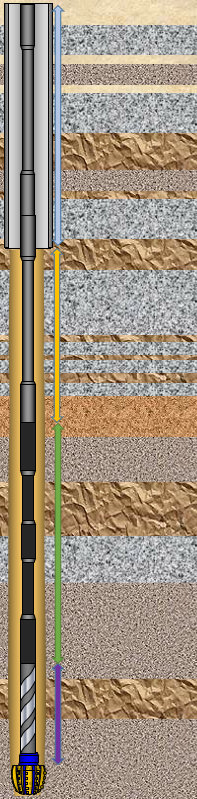
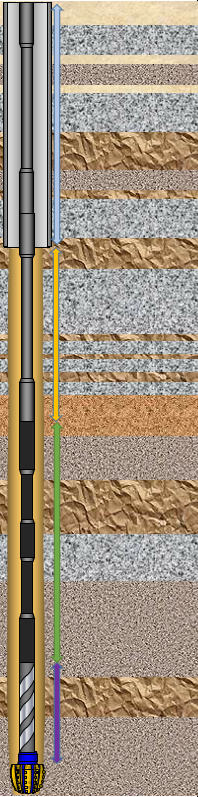
diseno final de iadc v sur es

Changed region(s): [[0.0, 0.0, 1.0, 1.0], [0.3655, 0.3614, 0.3959, 0.4216], [0.3655, 0.0602, 0.3959, 0.0903]]

diff --git a/resources/views/Admin/content/Instructor/exercises/killsheetsComponents/IADC/vertical/Surface/spanish.blade.php b/resources/views/Admin/content/Instructor/exercises/killsheetsComponents/IADC/vertical/Surface/spanish.blade.php
@@ -23,6 +23,7 @@
         display: flex;
         justify-content: space-between;
         align-items: center;
+      
         /* border-bottom: 1px solid #000; */
         /* padding-bottom: 10px; */
         /* margin-bottom: 10px; */
@@ -53,10 +54,13 @@
         text-align: center;
         color: #3366FF;
         border: 1px solid #3366FF;
-        border-radius: 20px;
-        padding: 0.5vw;
+        border-radius: 50%;
+        padding: 0.5vw 1vw;
         margin: 15px auto;
-        width: auto;
+        max-width: fit-content;
+        font-size: 1.2vw;
+        font-weight: bold;
+        font-family: 'Calibri', Helvetica, Arial, sans-serif;
         height: auto;
     }
     
@@ -70,7 +74,9 @@
     
     .label-iadc-v {
         background: #0000000d;
-        min-width: 20%;
+        color: #000;
+        min-width: 12%;
+        width: auto;
         max-width: 20%;
         font-size: 0.7vw;
         text-align: center;
@@ -85,8 +91,20 @@
         align-items: center;
         font-size: 0.7vw;
     }
+
+    .formula-section-anular {
+        flex: 1;
+        display: flex;
+        align-items: center;
+        font-size: 0.7vw;
+    }
     .formula span{
         font-size: 1.1vw;
+        font-family: Cambria,Georgia,serif; 
+    }
+
+    .formula-section-anular span{
+        font-size: 1vw;
         font-family: Cambria,Georgia,serif; 
     }
     
@@ -96,12 +114,18 @@
         text-align: center;
         margin: 0 5px;
     }
+
+      .formula-section-anular input {
+        width: 3vw;
+        text-align: center;
+        margin: 0 5px;
+    }
     
     .total-box {
         border: 1px solid #000;
-        padding: 10px;
+        padding: 1vw 0.5vw;
         margin: 10px auto;
-        width: 80%;
+        max-width: fit-content;
         text-align: center;
     }
     
@@ -129,6 +153,8 @@
     .blue-text {
         color: #3366FF;
         font-size: 1vw;
+        font-family: 'Calibri', Helvetica, Arial, sans-serif;
+        font-weight: bold;
     }
     
     .blue-text input{
@@ -251,7 +277,7 @@
     .card-title {
     margin: 0;
     font-size: 18px;
-    color: #333;
+    color: #000000;
     }
     
     .card-body {
@@ -279,7 +305,7 @@
     .form-group label {
     flex-basis: 40%;
     font-weight: 500;
-    color: #555;
+    color: #000000;
     }
     
     input {
@@ -328,45 +354,38 @@
     min-height: 50vh;
     padding: 20px;
     }
+
+    .min-text{
+        min-width:6vw;
+        padding: 0;
+    }
+
+    .input-number-data-well {
+        width: 20%;
+        text-align: center;
+        margin: 0;
+        border: none;
+        min-width: 30px;
+        border-bottom: 1px solid #000000;
+        padding: 0;
+        outline: none;
+        background-color: transparent;
+        transition: border-color 0.3s;
+    }
 </style>
 <div class="container-iadc-v">
     <!-- Left section: Well diagram (would be an image) -->
     <div class="well-diagram-iadc-v">
-    <img src="/assets/images/killsheets/iadc-v-sur.png" alt="Well Diagram" style="width: 100%; height: 100%;">
-    <div class="section" style="position: ">
-        <div class="calc-row">
-            <div class="label-iadc-v">Tubería de <br> perforación <br>(DP)</div>
-            <div class="formula">
-                <span>Capacidad</span>
-                <input class="min-text" type="text"> BBL/PIE x
-                <span>Longitud</span>
-                <input class="min-text" type="text"> PIES = 
-                <input class="min-text" type="text"> BBL
-            </div>
+        <div class="section" style="position: absolute; left:4.2vw; ">
+            <div class="label-iadc-v" style=" border: 0.1vw solid #9DC3E6; min-width: 100%; background: #fff; font-size:0.7vw; padding: 0.1vw 0 0.3vw 0; margin-top:7vw; font-family: 'Calibri', Helvetica, Arial, sans-serif;"><strong> Longitud DP en agujero</strong><br style="padding: 0;"> <strong>revestido </strong><br style="padding: 0;"><input class="input-number-data-well" type="number" style="padding: 0; width: 5vw;"></div>
+            <div class="label-iadc-v" style=" border: 0.1vw solid #000; min-width: 100%; background: #b3b3b3;  font-size:0.7vw; padding: 0.1vw 0 0.3vw 0; margin-top:4vw; font-family: 'Calibri', Helvetica, Arial, sans-serif;"><strong> Revestimiento MD </strong><input class="input-number-data-well" type="number"> <br><strong>Revestimiento TVD</strong><input class="input-number-data-well" type="number" style="padding: 0; width: 2vw;"></div>
+            <div class="label-iadc-v" style=" border: 0.1vw solid #FFC000;min-width: 100%;background: #fff;  font-size:0.66vw; padding: 0.1vw 0 0.3vw 0; margin-top:3.5vw; font-family: 'Calibri', Helvetica, Arial, sans-serif;"><strong>Longitud DP en agujero abierto</strong><br> <input class="input-number-data-well" type="number" style="padding: 0; width: 5vw;"> <br> <strong>(Agujero revestido MD, Longitud DC-MD-Longitud HWDP)</strong> </div>
+            <div class="label-iadc-v" style=" border: 0.1vw solid #548235;min-width: 100%; background: #fff;  font-size:0.7vw; padding: 0.1vw 0 0.3vw 0; margin-top:11.5vw; font-family: 'Calibri', Helvetica, Arial, sans-serif;"><strong>Longitud HWDP</strong><br> <input class="input-number-data-well" type="number" style="padding: 0; width: 5vw;"> </div>
+            <div class="label-iadc-v" style=" border: 0.1w solid #7030A0;min-width: 100%; background: #fff;  font-size:0.7vw; padding: 0.1vw 0 0.3vw 0; margin-top:11vw; font-family: 'Calibri', Helvetica, Arial, sans-serif;"><strong>Longitud DC</strong><br> <input class="input-number-data-well" type="number" style="padding: 0; width: 5vw;"> </div>
+            <div class="label-iadc-v" style=" border: 0.1vw solid #000;min-width: 100%; background: #b3b3b3;font-size:0.7vw; padding: 0.1vw 0 0.3vw 0; margin-top:01vw; font-family: 'Calibri', Helvetica, Arial, sans-serif;"><strong>Tam. del agujero</strong> <input class="input-number-data-well" type="number"style="padding: 0; width: 2vw;"> <br> <strong>Agujero MD</strong> <input class="input-number-data-well" type="number"> <br> <strong>Agujero  TVD</strong> <input class="input-number-data-well" type="number"></div>
         </div>
-        
-        <div class="calc-row">
-        <div class="label-iadc-v">Tubería <br>pesada <br>(HWDP)</div>
-        <div class="formula">
-            <span>Capacidad</span>
-            <input type="text">      BBL/PIE x
-            <span>Longitud</span>
-            <input type="text">      PIES = 
-            <input type="text">      BBL
-        </div>
-        </div>
-        
-        <div class="calc-row">
-        <div class="label-iadc-v">Collares de<br> perforación <br>(DC)</div>
-        <div class="formula">
-            <span>Capacidad</span>
-            <input type="text"> BBL/PIE x
-            <span>Longitud</span>
-            <input type="text"> PIES = 
-            <input type="text"> BBL
-        </div>
-        </div>
-    </div>
+        <img src="/assets/images/killsheets/iadc-v-sur.png" alt="Well Diagram" style="width: 100%; height: 100%;">
+   
     </div>      
     
     <!-- Middle section: Calculations -->
@@ -383,10 +402,12 @@
             <div class="label-iadc-v">Tubería de <br> perforación <br>(DP)</div>
             <div class="formula">
                 <span>Capacidad</span>
-                <input class="min-text" type="text"> BBL/PIE x
-                <span>Longitud</span>
-                <input class="min-text" type="text"> PIES = 
-                <input class="min-text" type="text"> BBL
+                <input class="min-text" type="text"> 
+                <span><sub>BBL/PIE </sub> × Longitud</span>
+                <input class="min-text" type="text"> 
+                <span> <sub>PIES </sub> = </span>
+                <input class="min-text" type="text"> 
+                <span><sub>BBL</sub></span>
             </div>
         </div>
         
@@ -394,90 +415,87 @@
         <div class="label-iadc-v">Tubería <br>pesada <br>(HWDP)</div>
         <div class="formula">
             <span>Capacidad</span>
-            <input type="text">      BBL/PIE x
-            <span>Longitud</span>
-            <input type="text">      PIES = 
-            <input type="text">      BBL
+            <input class="min-text" type="text">      
+            <span><sub>BBL/PIE</sub> × Longitud</span>
+            <input class="min-text" type="text">      <span><sub>PIES</sub> = </span>
+            <input class="min-text" type="text">      <span><sub>BBL</sub></span>
         </div>
         </div>
         
         <div class="calc-row">
         <div class="label-iadc-v">Collares de<br> perforación <br>(DC)</div>
-        <div class="formula">
-            <span>Capacidad</span>
-            <input type="text"> BBL/PIE x
-            <span>Longitud</span>
-            <input type="text"> PIES = 
-            <input type="text"> BBL
+        <div class="formula" >
+            <span >Capacidad</span>
+            <input class="min-text" type="text"> <span><sub>BBL/PIE</sub> × Longitud</span>
+            <input class="min-text" type="text"> <span><sub>PIES</sub> = </span>
+            <input class="min-text" type="text"> <span><sub>BBL</sub></span>
         </div>
         </div>
     </div>
     
     <div class="total-box">
-        <div class="blue-text">Volumen total de la sarta de perforación = <input type="text"> BBL</div>
+        <div class="blue-text">Volumen total de la sarta de perforación = <input class="min-text" type="text"> BBL</div>
     </div>
-    <hr>
+ <hr>
     <!-- Annular Space Volume Section -->
     <div class="section-title-iadc-v">Volumen del espacio anular</div>
     
     <div class="section">
         <div class="calc-row">
         <div class="label-iadc-v">Tubería de <br>perforación <br>en agujero <br>revestido</div>
-        <div class="formula">
+        <div class="formula-section-anular">
             <span>Capacidad Anular</span>
-            <input type="text"> BBL/PIE x
-            <span>Longitud</span>
-            <input type="text"> PIES = 
-            <input type="text"> BBL
+            <input class="min-text" type="text"> <span><sub>BBL/PIE</sub> × Longitud</span>
+            <input class="min-text" type="text"> <span><sub>PIES</sub> = </span>
+            <input class="min-text" type="text"> <span><sub>BBL</sub></span>
         </div>
         </div>
         
         <div class="calc-row">
         <div class="label-iadc-v">Tubería de <br>perforación <br>en agujero <br>abierto</div>
-        <div class="formula">
+        <div class="formula-section-anular">
             <span>Capacidad Anular</span>
-            <input type="text"> BBL/PIE x
-            <span>Longitud</span>
-            <input type="text"> PIES = 
-            <input type="text"> BBL
+            <input class="min-text" type="text"> <span><sub>BBL/PIE</sub> × Longitud</span>
+            <input class="min-text" type="text"> <span><sub>PIES</sub> = </span>
+            <input class="min-text" type="text"> <span><sub>BBL</sub></span>
         </div>
         </div>
         
         <div class="calc-row">
         <div class="label-iadc-v">HWDP en <br>agujero <br>abierto</div>
-        <div class="formula">
+        <div class="formula-section-anular">
             <span>Capacidad Anular</span>
-            <input type="text"> BBL/PIE x
-            <span>Longitud</span>
-            <input type="text"> PIES = 
-            <input type="text"> BBL
+            <input class="min-text" type="text"> <span><sub>BBL/PIE</sub> × Longitud</span>
+            <input class="min-text" type="text"> <span><sub>PIES</sub> = </span>
+            <input class="min-text" type="text"> <span><sub>BBL</sub></span>
         </div>
         </div>
         
         <div class="calc-row">
         <div class="label-iadc-v">Collares de <br>perforación <br>en agujero <br>abierto (DC)</div>
-        <div class="formula">
+        <div class="formula-section-anular">
             <span>Capacidad Anular</span>
-            <input type="text"> BBL/PIE x
-            <span>Longitud</span>
-            <input type="text"> PIES = 
-            <input type="text"> BBL
+            <input class="min-text" type="text"> <span><sub>BBL/PIE</sub> × Longitud</span>
+            <input class="min-text" type="text"> <span><sub>PIES</sub> = </span>
+            <input class="min-text" type="text"> <span><sub>BBL</sub></span>
         </div>
         </div>
     </div>
     
     <div class="total-box">
-        <div class="blue-text">Volumen total de agujero abierto = <input type="text"> BBL</div>
+        <div class="blue-text">Volumen total de agujero abierto = <input class="min-text" type="text"> BBL</div>
     </div>
     
     <div class="total-box">
-        <div class="blue-text">Volumen total del espacio anular = <input type="text"> BBL</div>
+        <div class="blue-text">Volumen total del espacio anular = <input class="min-text" type="text"> BBL</div>
     </div>
     </div>
     
     <!--tercera columna -->
     <div class="right-column-1">
-        <div class="header-iadc-v">
+        <div class="header-iadc-v" style="  width: 104%;
+        padding-bottom: 0.5vw;
+        border-bottom: 1px solid #000;">
             <img src="/assets/images/killsheets/logoiadc.png" alt="IADC" style="float:left">
             <span class="titleIadcVS">Hoja de matar - Superficie</span>
             <img src="/assets/images/killsheets/logosmithmason.png" alt="Smith Mason & Co Logo" style="float:right">
